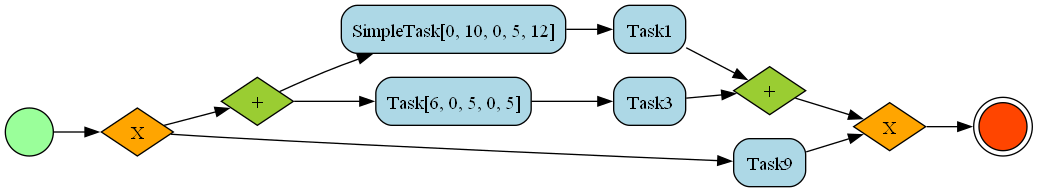
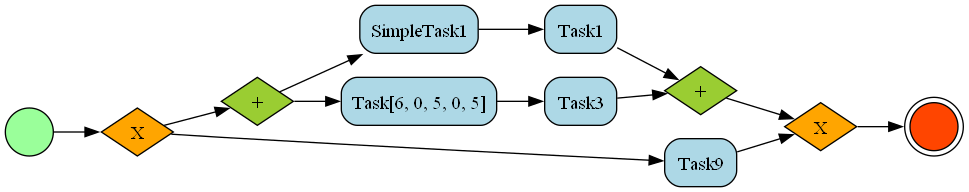
mod

Changed region(s): [[0.0, 0.0, 1.0, 1.0], [0.4644, 0.7812, 0.5573, 0.8125]]

diff --git a/dash_py/utils/automa.py b/dash_py/utils/automa.py
@@ -1,6 +1,6 @@
 from random import randint
 
-from utils.env import ALGORITHMS, DURATIONS
+from utils.env import ALGORITHMS, DURATIONS, DELAYS, NAMES, PROBABILITIES
 from solver.test_aalpy import automata_search_strategy
 from utils import check_syntax as cs
 " Here the automata is called to calculate the strategies for the process "
@@ -42,7 +42,11 @@ def calc_strategy_paco(bpmn:dict, bound:list[int]) -> dict:
         print('testing PACO...')
         print(bound)
         # replace the duration list with the max duration
-        bpmn[DURATIONS] = cs.set_max_duration(bpmn[DURATIONS])
+        bpmn[DURATIONS] = cs.set_max_duration(bpmn[DURATIONS])        
+        bpmn[DELAYS]= {}
+        bpmn[NAMES]={}
+        bpmn[PROBABILITIES] = {}
+        print(bpmn)
         strat = automata_search_strategy(bpmn, bound)
         if strat.startswith("A strategy") :
             strategies['strat1'] = strat

diff --git a/dash_py/solver/test_aalpy.py b/dash_py/solver/test_aalpy.py
@@ -164,9 +164,9 @@ def automata_search_strategy(bpmn: dict, bound: list[int]) -> str:
         tree = SESE_PARSER.parse(bpmn[TASK_SEQ])
 
         # Convert the parsed tree into a custom tree and get the last ID
-        custom_tree, last_id = Lark_to_CTree(tree, args[PROBABILITIES],
-                                            args[IMPACTS], args[DURATIONS], 
-                                            args[NAMES], args[DELAYS], h=args[H])
+        custom_tree, last_id = Lark_to_CTree(tree, bpmn[PROBABILITIES],
+                                            bpmn[IMPACTS], bpmn[DURATIONS], 
+                                            bpmn[NAMES], bpmn[DELAYS], h=bpmn[H])
 
         # Calculate the number of nodes in the tree
         number_of_nodes = last_id + 1
